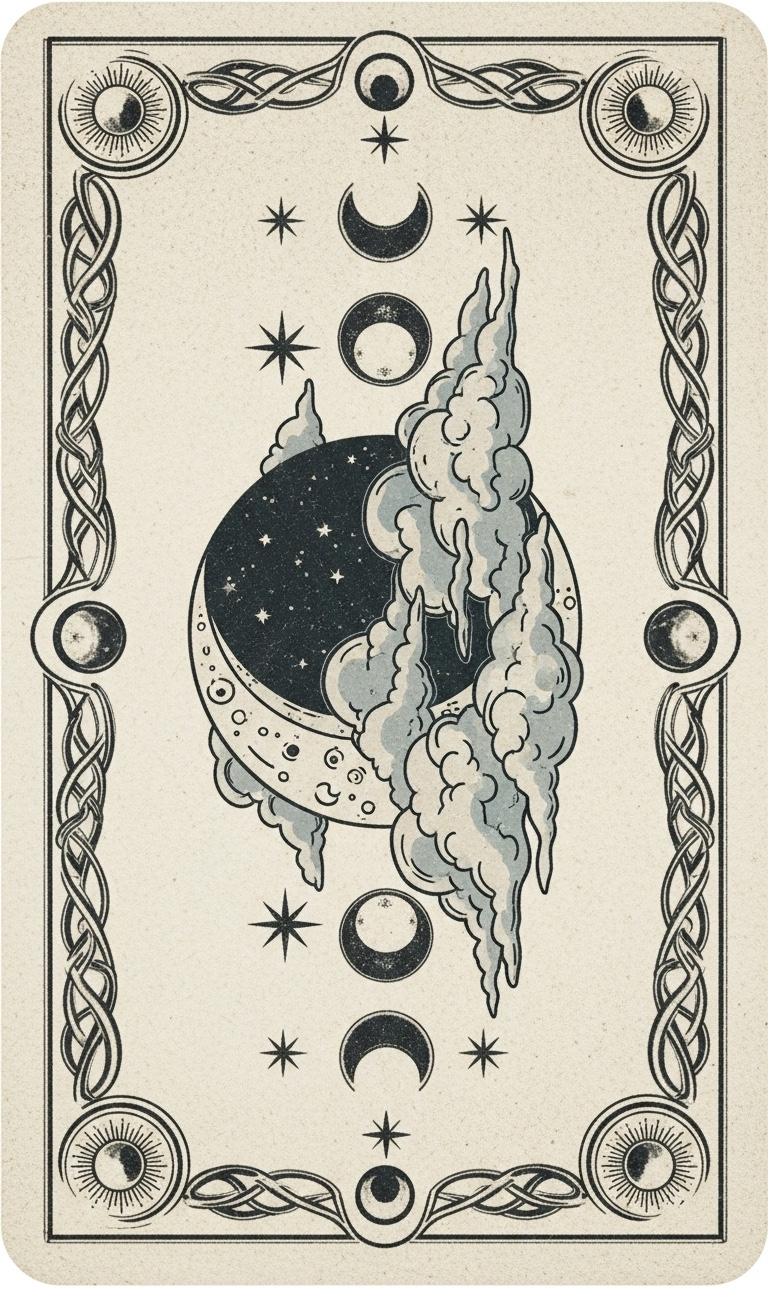
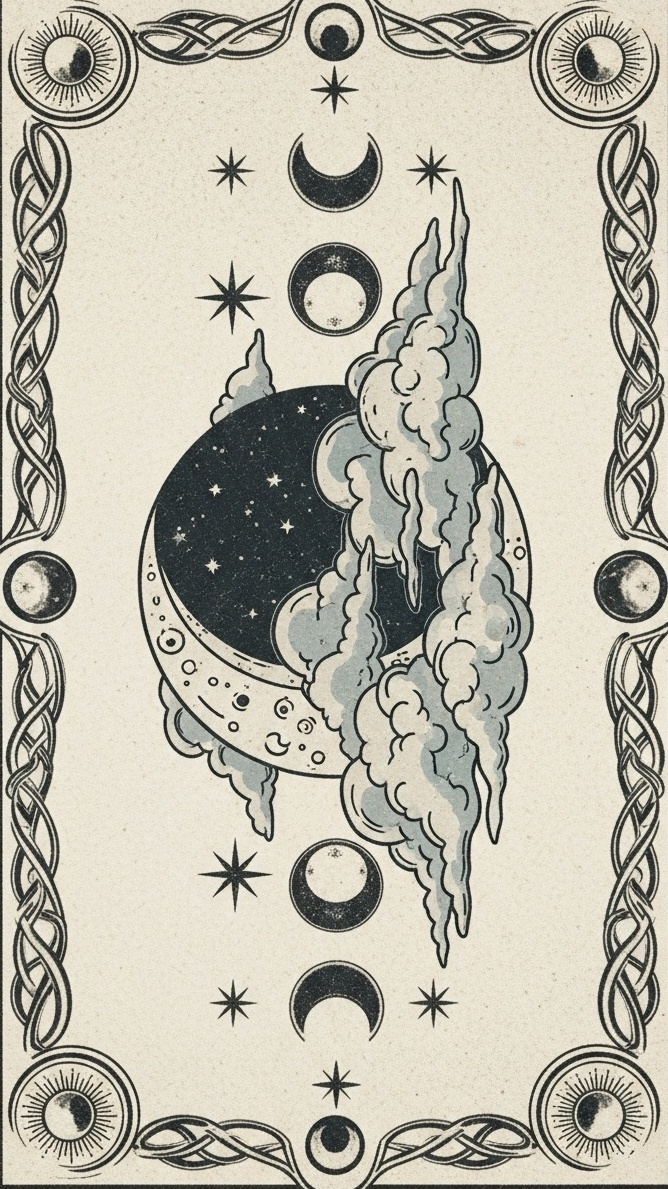
fix: カード裏面の画像縮尺を調整
- moon-card-back-v2.jpgの余白を50px削除
- 668x1189pxにリサイズ（アスペクト比1:0.56）
- 表面のカードと同じ縮尺で表示されるように調整
- バックアップファイルを.gitignoreに追加

diff --git a/trim_card_back.py b/trim_card_back.py
@@ -1,0 +1,61 @@
+#!/usr/bin/env python3
+"""
+moon-card-back-v2.jpgの余白をトリミングして縮尺を合わせる
+"""
+
+from PIL import Image
+import os
+
+def trim_card_back():
+    """
+    カード裏面の余白をトリミング
+    """
+    image_path = "/Users/shiraitouma/daniel/line-love-edu/public/images/moon-card-back-v2.jpg"
+    
+    # バックアップを作成
+    backup_path = image_path.replace('.jpg', '_original.jpg')
+    
+    img = Image.open(image_path)
+    
+    # バックアップがなければ作成
+    if not os.path.exists(backup_path):
+        img.save(backup_path, 'JPEG', quality=95)
+        print(f"バックアップ作成: {backup_path}")
+    
+    width, height = img.size
+    
+    print(f"処理中: moon-card-back-v2.jpg")
+    print(f"  元のサイズ: {img.size}")
+    
+    # 余白をトリミング（周囲の余白を削除）
+    # 他のカード画像と同じように、ベージュ色の余白を削除
+    trim_pixels = 50  # 50ピクセルずつトリミング
+    
+    left = trim_pixels
+    top = trim_pixels
+    right = width - trim_pixels
+    bottom = height - trim_pixels
+    
+    if left < right and top < bottom:
+        cropped = img.crop((left, top, right, bottom))
+        
+        # 保存
+        cropped.save(image_path, 'JPEG', quality=95)
+        
+        print(f"  新しいサイズ: {cropped.size}")
+        print(f"  削減: {trim_pixels}ピクセル（全辺）")
+        
+        # アスペクト比を確認
+        new_width, new_height = cropped.size
+        aspect_ratio = new_width / new_height
+        print(f"  アスペクト比: 1:{aspect_ratio:.2f}")
+        
+        return True
+    else:
+        print(f"  画像が小さすぎてトリミングできません")
+        return False
+
+if __name__ == "__main__":
+    if trim_card_back():
+        print("\n完了！ moon-card-back-v2.jpgをトリミングしました。")
+        print("他のカード画像と同じ縮尺になりました。")
